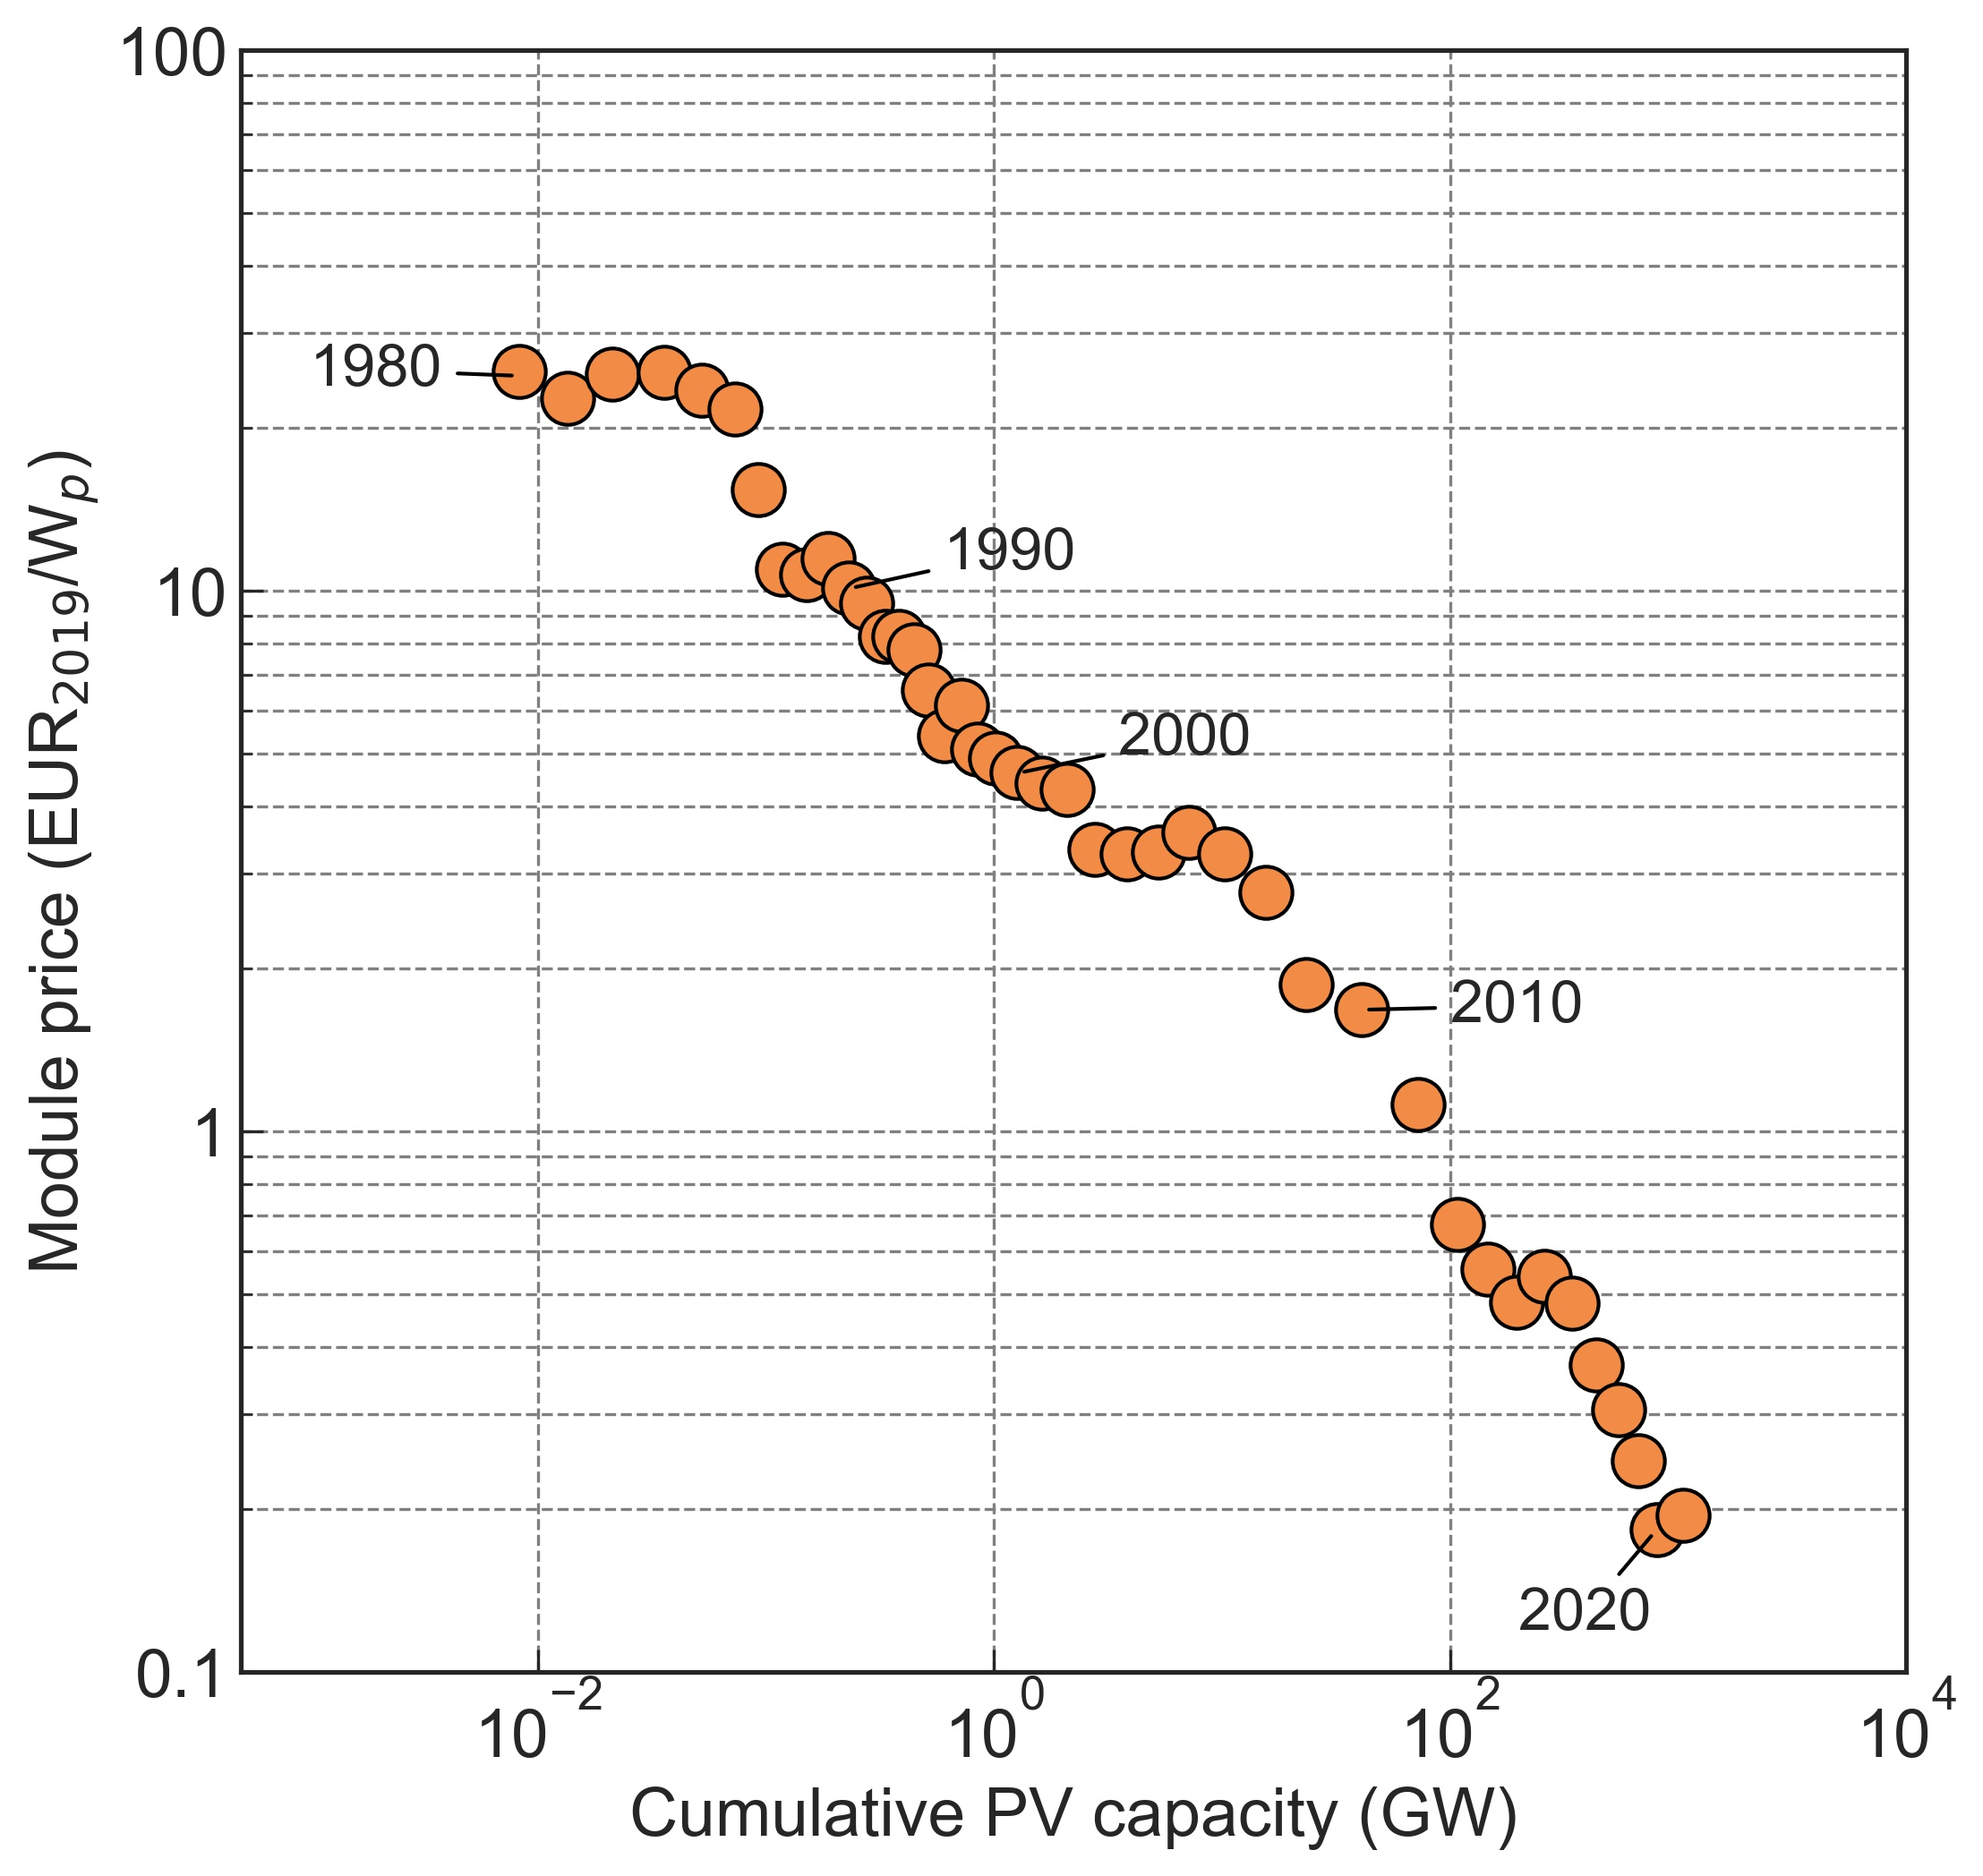
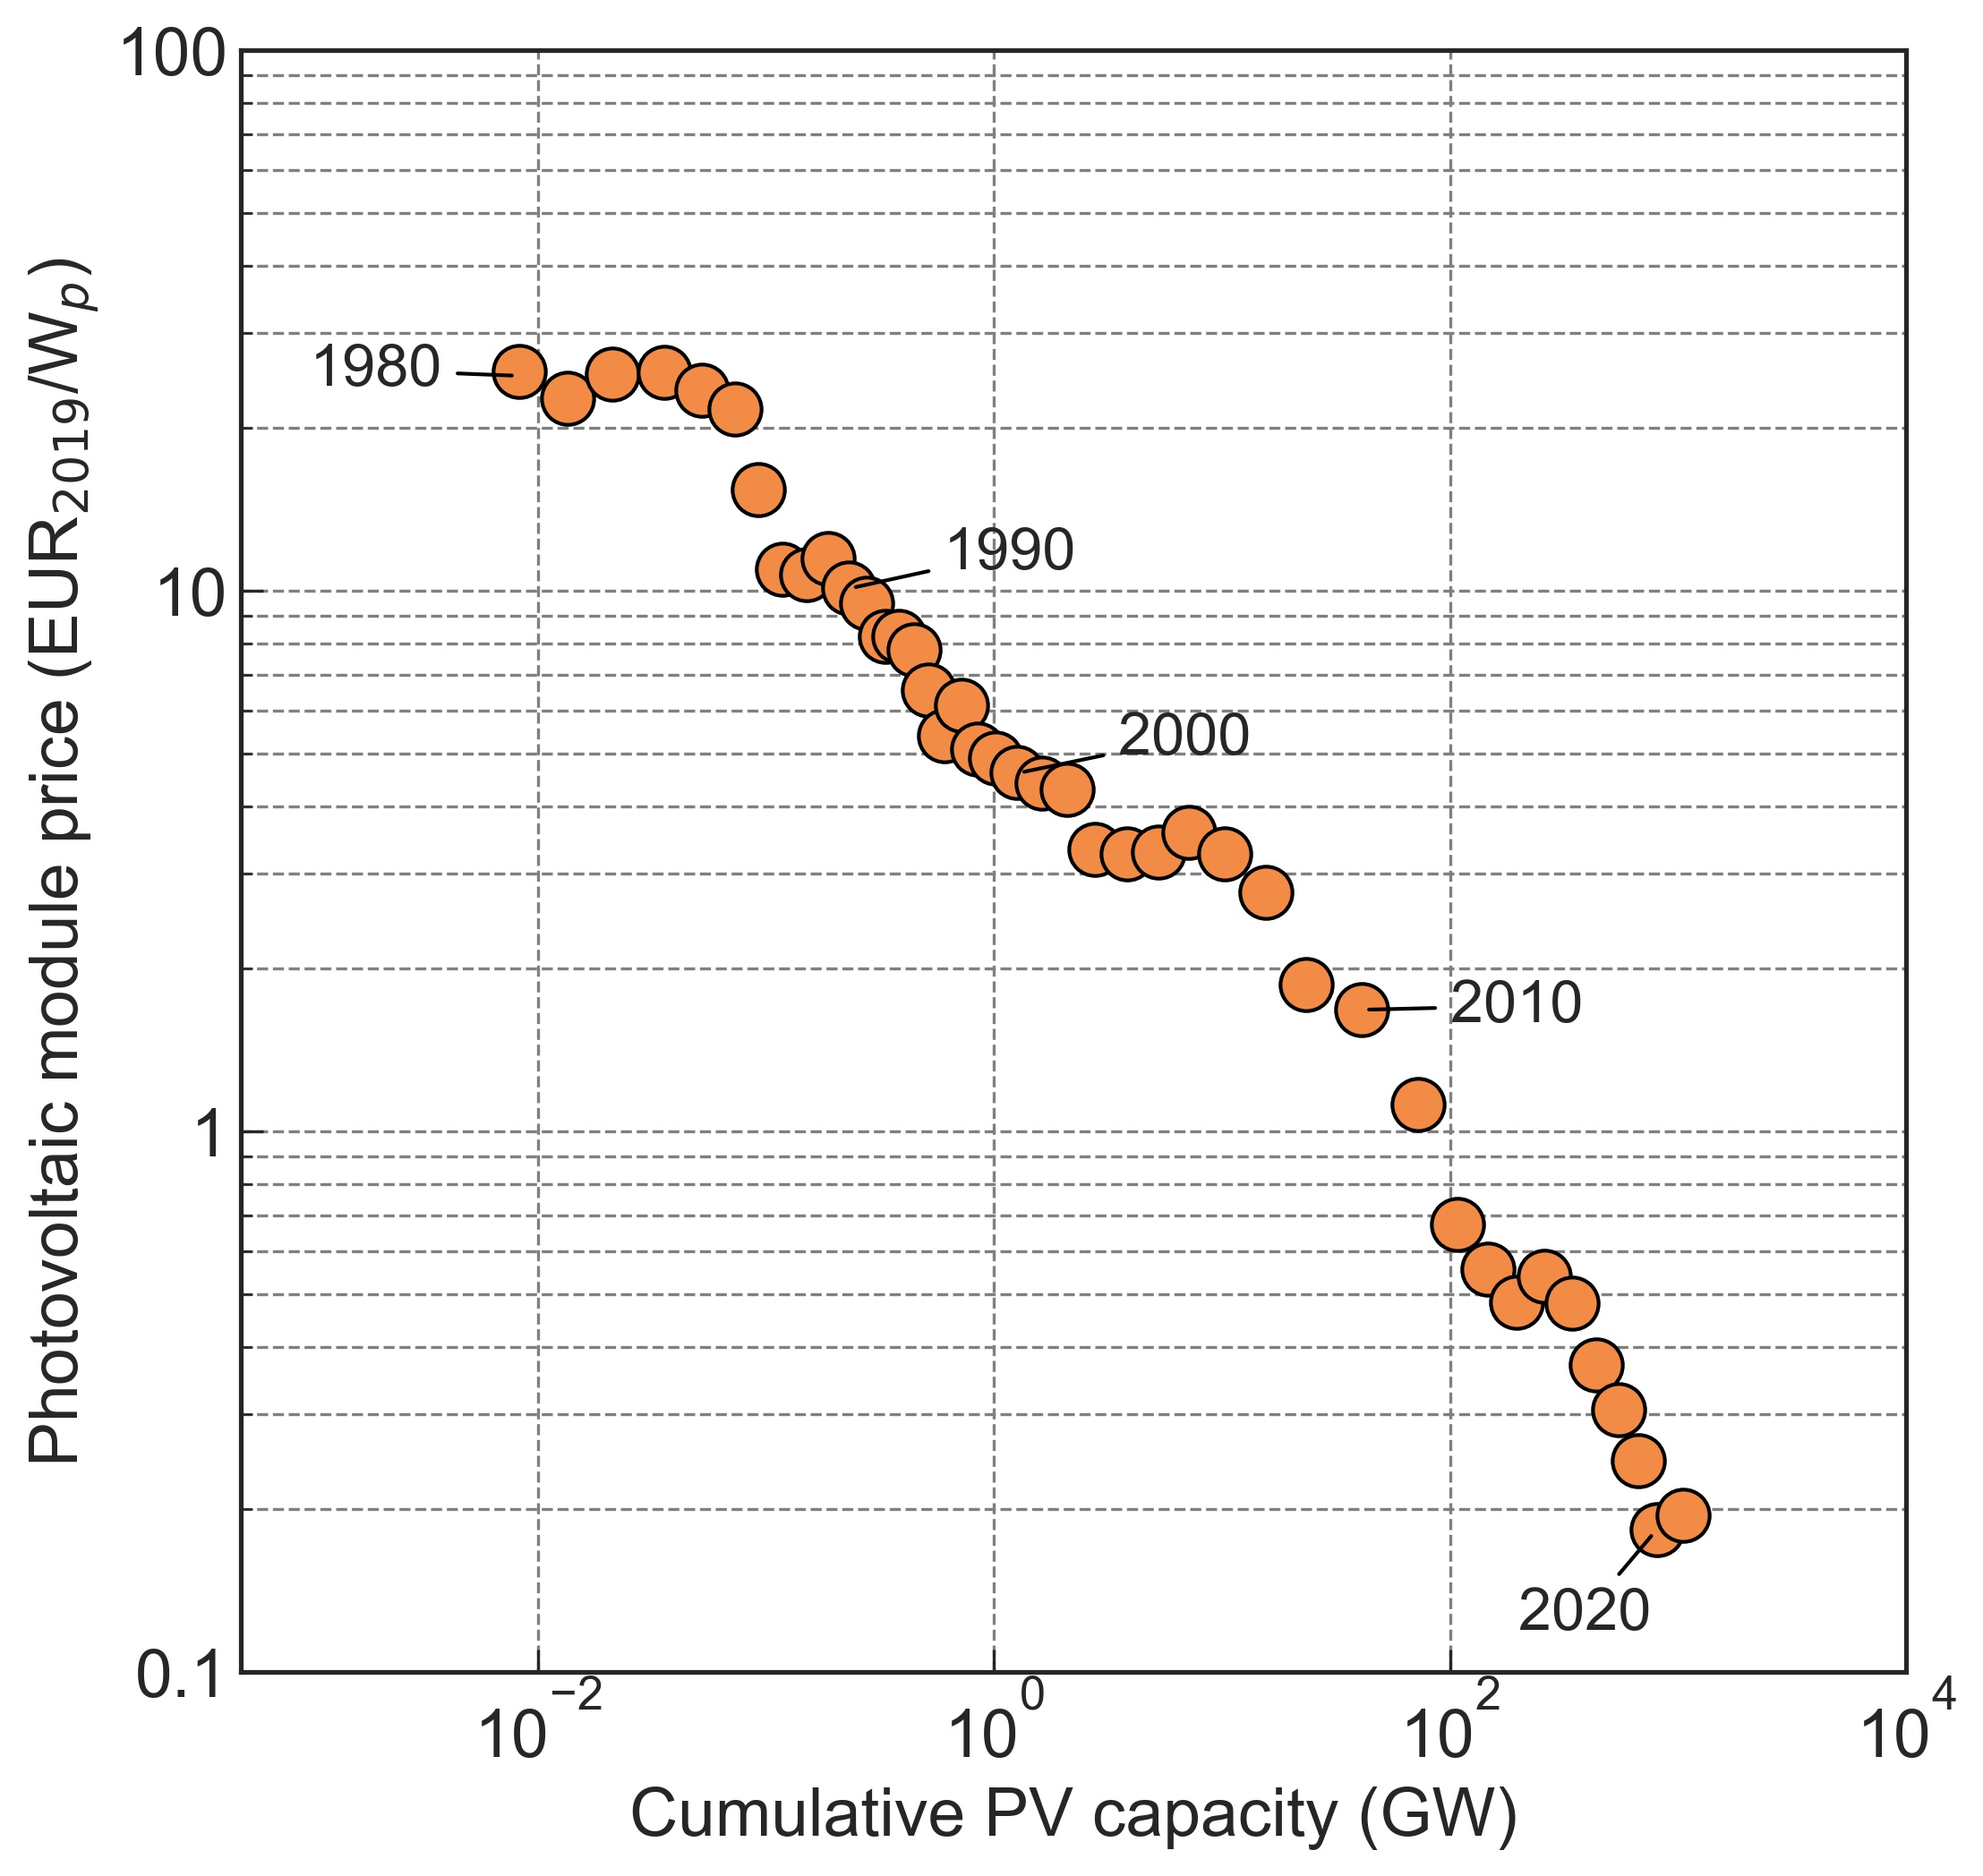
update learning curve figura

Changed region(s): [[0.0, 0.1551, 0.0623, 0.7753]]

diff --git a/Figures/Chapter_13/learning_curve.py b/Figures/Chapter_13/learning_curve.py
@@ -26,7 +26,7 @@ ax1.loglog(cost['volume'], cost['cost'],
            marker='o', markerfacecolor=color_1,
            linewidth=0, color='black', #color_1,
            markersize=14)
-ax1.set_ylabel('Module price (EUR$_{2019}$/W$_p$)')
+ax1.set_ylabel('Photovoltaic module price (EUR$_{2019}$/W$_p$)')
 ax1.set_xlabel('Cumulative PV capacity (GW)')
 ax1.grid(color='grey', linestyle='--', axis='both', which='both')
 ax1.set_ylim(0.1,30)
